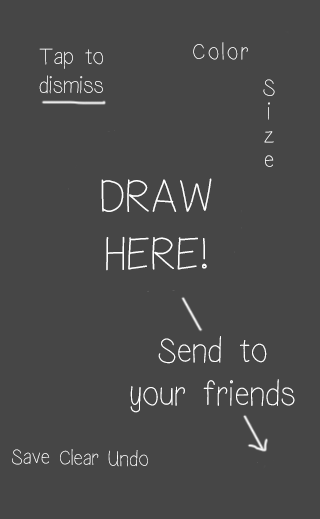
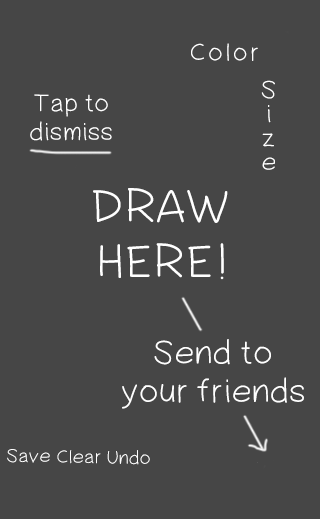
New custom handwritten font. slightly different UI on drawing screens!

diff --git a/LeaveATrace/CanvasViewController.m b/LeaveATrace/CanvasViewController.m
@@ -28,6 +28,7 @@ NSString *badgeString;
 NSString *tracesBadgeString;
 long iconBadge;
 BOOL sentImage;
+NSMutableArray *undoImageArray;
 
 @interface CanvasViewController ()
 
@@ -66,7 +67,7 @@ BOOL sentImage;
     theColor = [UIColor colorWithHue:hue saturation:1.0 brightness:1.0 alpha:1.0];
     
     currentColorImage.backgroundColor = theColor;
-    currentColorImage.layer.cornerRadius = 2.0;
+    currentColorImage.layer.cornerRadius = 4.0;
     currentColorImage.layer.borderColor = [UIColor blackColor].CGColor;
     currentColorImage.layer.borderWidth = 3.0;
     
@@ -74,6 +75,8 @@ BOOL sentImage;
     
     CGAffineTransform trans = CGAffineTransformMakeRotation(M_PI * 1.5);
     self.brushSize.transform = trans;
+    self.colorValue.transform = trans;
+    sliderImage.transform = trans;
     
     [[NSNotificationCenter defaultCenter] addObserver:self
                                              selector:@selector(updateBadges:)
@@ -374,10 +377,6 @@ BOOL sentImage;
     
     [undoImageArray removeAllObjects];
     
-    UIImage *nothing = [UIImage imageNamed:@"Nothing.png"];
-    
-    [trashB setImage:nothing forState:UIControlStateHighlighted];
-    
 }
 
 //----------------------------------------------------------------------------------
@@ -399,10 +398,6 @@ BOOL sentImage;
         [undoImageArray removeLastObject];
         
         mainImage.image = undoImage;
-        
-        UIImage *nothing = [UIImage imageNamed:@"Nothing.png"];
-        
-        [undoB setImage:nothing forState:UIControlStateHighlighted];
         
     }
     
@@ -461,8 +456,6 @@ BOOL sentImage;
     [mainImage.image drawInRect:CGRectMake(0, 0, mainImage.frame.size.width, mainImage.frame.size.height)];
     undoImage = UIGraphicsGetImageFromCurrentImageContext();
     [undoImageArray addObject:undoImage];
-    
-    
     
 }
 
@@ -651,10 +644,6 @@ BOOL sentImage;
     UIGraphicsEndImageContext();
     UIImageWriteToSavedPhotosAlbum(SaveImage, self,@selector(image:didFinishSavingWithError:contextInfo:), nil);
     
-    UIImage *nothing = [UIImage imageNamed:@"Nothing.png"];
-    
-    [saveB setImage:nothing forState:UIControlStateHighlighted];
-    
     [colorValue setThumbImage:[UIImage alloc] forState:UIControlStateNormal];
     
 }
@@ -706,10 +695,6 @@ BOOL sentImage;
 {
     
     [self performSegueWithIdentifier:@"selectAContact" sender:self];
-    
-    UIImage *nothing = [UIImage imageNamed:@"Nothing.png"];
-    
-    [sendB setImage:nothing forState:UIControlStateHighlighted];
     
 }
 

diff --git a/LeaveATrace/tracesViewController.m b/LeaveATrace/tracesViewController.m
@@ -56,7 +56,7 @@ NSInteger traceObjectIdx;
     [[NSNotificationCenter defaultCenter] addObserver:self
                                              selector:@selector(receiveTraceNotification:)
                                                  name:@"SendTraceNotification"
-                                               object:nil];    
+                                               object:nil];
     
 }
 
@@ -70,8 +70,6 @@ NSInteger traceObjectIdx;
 
 -(void) viewDidAppear:(BOOL)animated
 {
-    
-    NSLog(@"view did appear traces view controller");
     
     if (!(APP).TRACES_DATA_LOADED)
     {
@@ -108,7 +106,6 @@ NSInteger traceObjectIdx;
 -(void) viewWillAppear:(BOOL)animated
 {
     
-    NSLog(@"view will appear traces view controller");
     [tracesTable reloadData];
     [self displayBadgeCounts];
     
@@ -339,6 +336,8 @@ NSInteger traceObjectIdx;
                 tmpOpenedString = @"- Sending...";
                 [cell.didNotOpenImage setHidden:YES];
                 [cell.sending startAnimating];
+                cell.userInteractionEnabled = NO;
+                
                 
             }
             else if ([tmpStatus isEqualToString:@"S"])
@@ -347,6 +346,7 @@ NSInteger traceObjectIdx;
                 tmpOpenedString = @"- Sent";
                 [cell.didNotOpenImage setHidden:NO];
                 [cell.sending stopAnimating];
+                cell.userInteractionEnabled = YES;
                 
             }
             else if ([tmpStatus isEqualToString:@"D"])

diff --git a/LeaveATrace/BrushSizeSlider.m b/LeaveATrace/BrushSizeSlider.m
@@ -29,7 +29,7 @@
     return self;
 }
 
--(BOOL)beginTrackingWithTouch:(UITouch *)touch withEvent:(UIEvent *)event
+-(BOOL) beginTrackingWithTouch:(UITouch *)touch withEvent:(UIEvent *)event
 {
     
     // Fade in and update the popup view
@@ -42,13 +42,14 @@
         [self positionAndUpdatePopupView];
         [self fadePopupViewInAndOut:YES];
         
+        
     }
     
     return [super beginTrackingWithTouch:touch withEvent:event];
     
 }
 
--(BOOL)continueTrackingWithTouch:(UITouch *)touch withEvent:(UIEvent *)event
+-(BOOL) continueTrackingWithTouch:(UITouch *)touch withEvent:(UIEvent *)event
 {
     
     // Update the popup view as slider knob is being moved
@@ -57,14 +58,14 @@
     
 }
 
--(void)cancelTrackingWithEvent:(UIEvent *)event
+-(void) cancelTrackingWithEvent:(UIEvent *)event
 {
     
     [super cancelTrackingWithEvent:event];
     
 }
 
--(void)endTrackingWithTouch:(UITouch *)touch withEvent:(UIEvent *)event
+-(void) endTrackingWithTouch:(UITouch *)touch withEvent:(UIEvent *)event
 {
     
     // Fade out the popup view
@@ -73,7 +74,7 @@
     
 }
 
--(void)constructSlider
+-(void) constructSlider
 {
     
     _popup = [[PopoverView alloc] initWithFrame:CGRectZero];
@@ -83,7 +84,7 @@
     
 }
 
--(void)fadePopupViewInAndOut:(BOOL)aFadeIn
+-(void) fadePopupViewInAndOut:(BOOL)aFadeIn
 {
     
     [UIView beginAnimations:nil context:NULL];

diff --git a/LeaveATrace/AppDelegate.m b/LeaveATrace/AppDelegate.m
@@ -62,6 +62,17 @@
 
     [[UISlider appearance] setThumbImage:thumbImage forState:UIControlStateNormal];
     
+    UIFont *titleFont = [UIFont fontWithName:@"PWSimpleHandwriting" size:27];
+    
+    NSShadow* shadow = [NSShadow new];
+    shadow.shadowOffset = CGSizeMake(0.0f, 0.0f);
+    shadow.shadowColor = [UIColor clearColor];
+    [[UINavigationBar appearance] setTitleTextAttributes: @{
+                                                            NSForegroundColorAttributeName: [UIColor yellowColor],
+                                                            NSFontAttributeName:titleFont,
+                                                            NSShadowAttributeName:shadow
+                                                            }];
+    
     return YES;
     
 }

diff --git a/LeaveATrace/CanvasViewController.h b/LeaveATrace/CanvasViewController.h
@@ -22,6 +22,7 @@ extern UIImage *SaveImage;
 extern PFFile *file;
 extern long iconBadge;
 extern BOOL sentImage;
+extern NSMutableArray *undoImageArray;
 
 @interface CanvasViewController : UIViewController <UIActionSheetDelegate, UIImagePickerControllerDelegate, UIActionSheetDelegate, UINavigationControllerDelegate> {
     
@@ -32,13 +33,14 @@ extern BOOL sentImage;
     CGFloat blue;
     CGFloat brush;
     CGFloat opacity;
+    CGPoint prevoiusPoint1;
+    CGPoint prevoiusPoint2;
     BOOL mouseSwiped;
     UIColor *theColor;
     double hue;
     
     //Undo
     UIImage *undoImage;
-    NSMutableArray *undoImageArray;
     
     //Variables
     BOOL dontTrash;

diff --git a/LeaveATrace/ThreadViewController.m b/LeaveATrace/ThreadViewController.m
@@ -52,12 +52,14 @@
     theColor = [UIColor colorWithHue:hue saturation:1.0 brightness:1.0 alpha:1.0];
     
     currentColorImage.backgroundColor = theColor;
-    currentColorImage.layer.cornerRadius = 2.0;
+    currentColorImage.layer.cornerRadius = 4.0;
     currentColorImage.layer.borderColor = [UIColor blackColor].CGColor;
     currentColorImage.layer.borderWidth = 3.0;
 
     CGAffineTransform trans = CGAffineTransformMakeRotation(M_PI * 1.5);
     self.brushSize.transform = trans;
+    self.colorValue.transform = trans;
+    sliderImage.transform = trans;
     
     int smallScreen = 480;
     

diff --git a/LeaveATrace/RequestsAndLogOutViewController.m b/LeaveATrace/RequestsAndLogOutViewController.m
@@ -240,8 +240,7 @@
         if (!succeeded)
         {
 
-            NSString *errorString = [[error userInfo] objectForKey:@"error"];
-            UIAlertView *errorAlertView = [[UIAlertView alloc] initWithTitle:@"Error" message:errorString delegate:nil cancelButtonTitle:@"Ok" otherButtonTitles:nil, nil];
+            UIAlertView *errorAlertView = [[UIAlertView alloc] initWithTitle:@"Error" message:@"There was an error accepting, please try again!" delegate:nil cancelButtonTitle:@"Ok" otherButtonTitles:nil];
             
             [errorAlertView show];
             

diff --git a/LeaveATrace/SelectAContactViewController.m b/LeaveATrace/SelectAContactViewController.m
@@ -13,7 +13,7 @@
 
 #import "SelectAContactViewController.h"
 //#import "tracesViewController.h"
-//#import "CanvasViewController.h"
+#import "CanvasViewController.h"
 //#import "LeaveATraceItem.h"
 #import "sendToCell.h"
 #import "AppDelegate.h"
@@ -305,6 +305,8 @@
     sentImage = YES;
     
     [self dismissViewControllerAnimated:NO completion:nil];
+    
+    [undoImageArray removeAllObjects];
     
     PFObject *tempObject = [validContacts objectAtIndex:indexPath.row];
     NSString *tempContact = [tempObject objectForKey:@"contact"];

diff --git a/LeaveATrace/tracesViewController.h b/LeaveATrace/tracesViewController.h
@@ -17,12 +17,11 @@ extern NSInteger traceObjectIdx;
     PFQuery *query;
         
     IBOutlet UIBarButtonItem *editButton;
-    
     IBOutlet UIImageView *previewImage;
-    
     IBOutlet UILabel *noTraces;
-    
     IBOutlet UIActivityIndicatorView *loadingTraces;
+    IBOutlet UIImageView *tutorialImage2;
+    IBOutlet UINavigationController *TracesTitle;
     
 }
 

diff --git a/LeaveATrace/PopoverView.m b/LeaveATrace/PopoverView.m
@@ -32,7 +32,7 @@
         textLabel.textColor = [UIColor colorWithWhite:1.0f alpha:0.7];
         textLabel.text = self.text;
         textLabel.textAlignment = NSTextAlignmentCenter;
-        popoverView.frame = CGRectMake(-10, -20.0f, 100, 100);
+        popoverView.frame = CGRectMake(-20, -30.0f, 100, 100);
         [self addSubview:textLabel];
         
     }

diff --git a/LeaveATrace/AppDelegate.h b/LeaveATrace/AppDelegate.h
@@ -19,7 +19,6 @@
 @property (strong, atomic) NSMutableArray *requestsArray;
 @property (nonatomic, assign) NSInteger unopenedTraceCount;
 @property (nonatomic, assign) NSInteger friendRequestsCount;
-
 @property (nonatomic, assign) BOOL firstTime;
 @property (nonatomic, assign) BOOL TRACES_DATA_LOADED;
 @property (nonatomic, assign) BOOL CONTACTS_DATA_LOADED;

diff --git a/LeaveATrace/AddItemViewController.h b/LeaveATrace/AddItemViewController.h
@@ -25,6 +25,7 @@
 @interface AddItemViewController : UITableViewController <UITextFieldDelegate, ABPeoplePickerNavigationControllerDelegate, MFMessageComposeViewControllerDelegate, MFMailComposeViewControllerDelegate> {
     
     IBOutlet UIActivityIndicatorView *loadingContact;
+    IBOutlet UIButton *askButton;
     
     NSMutableArray *info;
     
